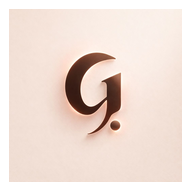
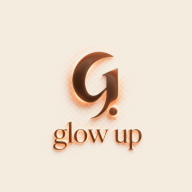
Prep app + confidentialite: page politique de confidentialite, nouvelle icone app, fiche App Store, ressources Capacitor
- /confidentialite : politique RGPD (requise par Apple) + liens footer (site + blog)
- Icone app = nouveau logo 'g.' (icons 192/512/1024), manifest couleurs terracotta/creme
- resources/ icon.png + splash.png (pour build cloud iOS)
- app-store/listing-fr.md : brouillon fiche App Store
- Footer: liens Conseils + Confidentialite

diff --git a/confidentialite/index.html b/confidentialite/index.html
@@ -1,0 +1,130 @@
+<!doctype html>
+<html lang="fr">
+<head>
+<meta charset="utf-8">
+<meta name="viewport" content="width=device-width, initial-scale=1">
+<title>Politique de confidentialité · Glow Up</title>
+<meta name="description" content="Politique de confidentialité de Glow Up : quelles données nous collectons, pourquoi, avec qui elles sont partagées, et tes droits.">
+<link rel="canonical" href="https://glowupskin.app/confidentialite/">
+<meta name="robots" content="index,follow">
+<link rel="icon" href="/icons/icon-192.png">
+<link rel="preconnect" href="https://fonts.googleapis.com">
+<link rel="preconnect" href="https://fonts.gstatic.com" crossorigin>
+<link href="https://fonts.googleapis.com/css2?family=Anton&family=Fraunces:opsz,wght@9..144,500;9..144,600&family=DM+Sans:opsz,wght@9..40,400;9..40,500;9..40,600&display=swap" rel="stylesheet">
+<style>
+:root{--cream:#F5ECE0;--white:#FCF8F1;--terra:#B4482E;--gold:#E0A24E;--espresso:#3A2318;--muted:#7E6552;--line:#E3D3BE;
+--anton:'Anton',Impact,sans-serif;--serif:'Fraunces',Georgia,serif;--sans:'DM Sans',-apple-system,BlinkMacSystemFont,"Segoe UI",sans-serif;}
+*{box-sizing:border-box;margin:0;padding:0;}
+body{background:var(--cream);color:var(--espresso);font-family:var(--sans);line-height:1.65;-webkit-font-smoothing:antialiased;}
+a{color:var(--terra);}
+.wrap{max-width:760px;margin:0 auto;padding:0 22px;}
+.bnav{position:sticky;top:0;z-index:10;background:rgba(245,236,224,.92);backdrop-filter:blur(10px);border-bottom:1px solid var(--line);}
+.bnav .wrap{display:flex;align-items:center;height:64px;gap:20px;max-width:1120px;}
+.bnav .brand{font-family:var(--serif);font-weight:600;font-size:25px;color:var(--terra);text-decoration:none;}
+.bnav .links{margin-left:auto;display:flex;gap:22px;font-size:14px;}
+.bnav .links a{color:var(--muted);text-decoration:none;}
+.hero{padding:56px 0 24px;}
+.hero .kicker{font-size:12px;font-weight:600;letter-spacing:.2em;text-transform:uppercase;color:var(--terra);}
+.hero h1{font-family:var(--anton);font-weight:400;text-transform:uppercase;font-size:clamp(34px,6vw,58px);line-height:.98;margin:10px 0 6px;}
+.hero .date{color:var(--muted);font-size:13px;}
+main.doc{padding:10px 0 40px;}
+.doc h2{font-family:var(--serif);font-weight:600;font-size:24px;color:var(--espresso);margin:36px 0 10px;}
+.doc h3{font-family:var(--serif);font-weight:600;font-size:18px;margin:22px 0 6px;}
+.doc p{margin:12px 0;font-size:16.5px;}
+.doc ul{margin:12px 0 12px 1.2em;}
+.doc li{margin:7px 0;}
+.doc strong{color:var(--espresso);}
+.callout{background:var(--white);border:1px solid var(--line);border-left:3px solid var(--gold);border-radius:0 12px 12px 0;padding:14px 18px;font-size:14.5px;color:var(--muted);margin:18px 0;}
+.foot{background:var(--espresso);color:#E7D6C4;margin-top:40px;}
+.foot .wrap{padding:34px 22px;display:flex;flex-wrap:wrap;gap:14px;align-items:center;max-width:1120px;}
+.foot .fb{font-family:var(--serif);font-weight:600;font-size:22px;color:var(--cream);}
+.foot .fl{margin-left:auto;display:flex;gap:18px;}
+.foot a{color:#E7D6C4;text-decoration:none;font-size:14px;}
+.foot .copy{width:100%;border-top:1px solid rgba(255,255,255,.12);padding-top:14px;font-size:12px;color:#A78B74;}
+</style>
+</head>
+<body>
+<nav class="bnav"><div class="wrap">
+  <a class="brand" href="/">glow up</a>
+  <div class="links"><a href="/">Accueil</a><a href="/blog/">Conseils</a></div>
+</div></nav>
+
+<header class="hero"><div class="wrap">
+  <span class="kicker">Glow Up</span>
+  <h1>Politique de confidentialité</h1>
+  <p class="date">Dernière mise à jour : 11 septembre 2026</p>
+</div></header>
+
+<main class="doc"><div class="wrap">
+
+  <p>Chez Glow Up, ta confiance compte autant que ta peau. Cette page explique clairement quelles données nous collectons, pourquoi, avec qui elles sont partagées, et quels sont tes droits. Nous appliquons le Règlement Général sur la Protection des Données (RGPD).</p>
+
+  <h2>1. Qui est responsable de tes données</h2>
+  <p>Le responsable du traitement est <strong>Glow Up</strong>, éditrice de l'application et du site <a href="https://glowupskin.app">glowupskin.app</a>. Pour toute question relative à tes données, tu peux nous écrire à <strong>contact@glowupskin.app</strong>.</p>
+
+  <h2>2. Les données que nous collectons</h2>
+  <ul>
+    <li><strong>Compte</strong> : ton adresse e-mail (et, si tu utilises Google, les informations de base de ton compte Google) pour créer et sécuriser ton espace.</li>
+    <li><strong>Photos</strong> : les photos de ton visage ou de tes produits que tu choisis d'analyser. Elles servent à l'analyse de ta peau et à la reconnaissance de produits. Des <strong>miniatures</strong> peuvent être conservées sur ton compte pour le suivi de l'évolution de ta peau (« Skin Journey »).</li>
+    <li><strong>Ton profil beauté</strong> : tes réponses au questionnaire, ta routine, tes préférences.</li>
+    <li><strong>Données d'usage</strong> : statistiques de navigation (pages vues, clics), collectées <strong>uniquement si tu acceptes les cookies</strong>.</li>
+    <li><strong>Abonnement</strong> : en cas d'achat, les informations de paiement sont traitées directement par notre prestataire Stripe — <strong>nous ne stockons jamais tes coordonnées bancaires</strong>.</li>
+  </ul>
+
+  <h2>3. Pourquoi nous utilisons tes données</h2>
+  <ul>
+    <li>Te fournir l'analyse de peau et une routine personnalisée <em>(exécution du service)</em>.</li>
+    <li>Gérer ton compte et ton abonnement <em>(exécution du contrat)</em>.</li>
+    <li>Améliorer l'application et comprendre son usage <em>(ton consentement, via les cookies)</em>.</li>
+    <li>Assurer la sécurité et prévenir les abus <em>(intérêt légitime)</em>.</li>
+  </ul>
+
+  <h2>4. Avec qui tes données sont partagées</h2>
+  <p>Nous ne vendons jamais tes données. Nous faisons appel à des prestataires de confiance, strictement pour faire fonctionner le service :</p>
+  <ul>
+    <li><strong>Google Firebase</strong> (authentification, base de données, hébergement) — compte, profil, miniatures.</li>
+    <li><strong>Google Analytics</strong> (mesure d'audience) — uniquement après ton consentement.</li>
+    <li><strong>Stripe</strong> (paiement sécurisé) — gestion des abonnements.</li>
+    <li><strong>Amazon</strong> — nos liens produits sont des liens affiliés ; si tu cliques, Amazon applique ses propres règles de confidentialité.</li>
+  </ul>
+
+  <h2>5. Cookies et mesure d'audience</h2>
+  <p>À ta première visite, un bandeau te permet d'<strong>accepter ou refuser</strong> les cookies de mesure d'audience (Google Analytics). Tant que tu n'as pas accepté, aucune statistique n'est envoyée. Les cookies strictement nécessaires au fonctionnement (connexion) restent actifs.</p>
+
+  <h2>6. Combien de temps nous les conservons</h2>
+  <ul>
+    <li>Données de compte et profil : tant que ton compte est actif.</li>
+    <li>Photos d'analyse : le temps de l'analyse ; les miniatures de suivi restent tant que tu ne les supprimes pas.</li>
+    <li>Statistiques : conformément aux réglages de Google Analytics (durée limitée).</li>
+  </ul>
+  <p>Tu peux demander la suppression de ton compte et de tes données à tout moment.</p>
+
+  <h2>7. Tes droits</h2>
+  <p>Conformément au RGPD, tu disposes des droits suivants : <strong>accès, rectification, effacement, portabilité, limitation et opposition</strong>. Pour les exercer, écris-nous à <strong>contact@glowupskin.app</strong>. Tu peux aussi introduire une réclamation auprès de la CNIL (cnil.fr).</p>
+
+  <h2>8. Sécurité</h2>
+  <p>Tes données sont hébergées sur des infrastructures sécurisées (Google Firebase) et les échanges sont chiffrés (HTTPS). L'accès est restreint aux traitements nécessaires au service.</p>
+
+  <h2>9. Mineurs</h2>
+  <p>Glow Up n'est pas destinée aux enfants. Pour les jeunes utilisatrices, des règles de sécurité limitent certaines recommandations d'actifs puissants. Si tu es mineure, utilise l'application avec l'accord d'un parent.</p>
+
+  <h2>10. Transferts internationaux</h2>
+  <p>Certains prestataires (Google, Stripe) peuvent traiter des données en dehors de l'Union européenne, avec des garanties conformes au RGPD (clauses contractuelles types).</p>
+
+  <h2>11. Modifications</h2>
+  <p>Nous pouvons mettre à jour cette politique. La date en haut de page indique la dernière version.</p>
+
+  <h2>12. Contact</h2>
+  <p>Une question sur tes données ? Écris-nous à <strong>contact@glowupskin.app</strong>. Nous te répondrons dans les meilleurs délais.</p>
+
+  <div class="callout">Glow Up t'accompagne en toute transparence : tes recommandations sont guidées par les besoins de ta peau et tes envies — jamais par une marque.</div>
+
+</div></main>
+
+<footer class="foot"><div class="wrap">
+  <div class="fb">glow up</div>
+  <div class="fl"><a href="/">Accueil</a><a href="/blog/">Conseils</a><a href="/confidentialite/">Confidentialité</a></div>
+  <div class="copy">© 2026 Glow Up · Ton agent IA skincare</div>
+</div></footer>
+</body>
+</html>

diff --git a/index.html b/index.html
@@ -625,6 +625,7 @@
           <li><a href="#" onclick="showScreen('shop'); return false;">Boutique</a></li>
           <li><a href="#" onclick="startGlowUp(); return false;">Mon diagnostic</a></li>
           <li><a href="#" onclick="showScreen('tryon'); return false;">Try-on virtuel</a></li>
+          <li><a href="/blog/">Conseils</a></li>
         </ul>
       </div>
       <div class="footer-col">
@@ -634,6 +635,7 @@
           <li><a href="#">FAQ</a></li>
           <li><a href="#">Contact</a></li>
           <li><a href="#" onclick="openCookieSettings(); return false;">Gérer les cookies</a></li>
+          <li><a href="/confidentialite/">Confidentialité</a></li>
         </ul>
       </div>
     </div>

diff --git a/blog/peau-fine-et-fragile/index.html b/blog/peau-fine-et-fragile/index.html
@@ -113,6 +113,6 @@ a{color:var(--terra);}
         <div class="wrap" style="max-width:680px;margin:0 auto;"><a class="backlink" href="/blog/">← Tous les conseils</a></div>
         </main><footer class="foot"><div class="wrap">
 <div class="fb">glow up</div>
-<div class="fl"><a href="/">Accueil</a><a href="/blog/">Conseils</a><a href="https://www.instagram.com/">Instagram</a></div>
+<div class="fl"><a href="/">Accueil</a><a href="/blog/">Conseils</a><a href="/confidentialite/">Confidentialité</a><a href="https://www.instagram.com/">Instagram</a></div>
 <div class="copy">© 2026 Glow Up · Ton agent IA skincare</div>
 </div></footer></body></html>

diff --git a/blog/routine-skincare-peau-fine-35-45-ans/index.html b/blog/routine-skincare-peau-fine-35-45-ans/index.html
@@ -110,6 +110,6 @@ a{color:var(--terra);}
         <div class="wrap" style="max-width:680px;margin:0 auto;"><a class="backlink" href="/blog/">← Tous les conseils</a></div>
         </main><footer class="foot"><div class="wrap">
 <div class="fb">glow up</div>
-<div class="fl"><a href="/">Accueil</a><a href="/blog/">Conseils</a><a href="https://www.instagram.com/">Instagram</a></div>
+<div class="fl"><a href="/">Accueil</a><a href="/blog/">Conseils</a><a href="/confidentialite/">Confidentialité</a><a href="https://www.instagram.com/">Instagram</a></div>
 <div class="copy">© 2026 Glow Up · Ton agent IA skincare</div>
 </div></footer></body></html>

diff --git a/blog/index.html b/blog/index.html
@@ -99,6 +99,6 @@ a{color:var(--terra);}
         <span class="more">Lire l'article →</span>
       </div></a></div></div></main><footer class="foot"><div class="wrap">
 <div class="fb">glow up</div>
-<div class="fl"><a href="/">Accueil</a><a href="/blog/">Conseils</a><a href="https://www.instagram.com/">Instagram</a></div>
+<div class="fl"><a href="/">Accueil</a><a href="/blog/">Conseils</a><a href="/confidentialite/">Confidentialité</a><a href="https://www.instagram.com/">Instagram</a></div>
 <div class="copy">© 2026 Glow Up · Ton agent IA skincare</div>
 </div></footer></body></html>

diff --git a/build-blog.js b/build-blog.js
@@ -129,7 +129,7 @@ const NAV = `<nav class="bnav"><div class="wrap">
 
 const FOOT = `<footer class="foot"><div class="wrap">
 <div class="fb">glow up</div>
-<div class="fl"><a href="/">Accueil</a><a href="/blog/">Conseils</a><a href="https://www.instagram.com/">Instagram</a></div>
+<div class="fl"><a href="/">Accueil</a><a href="/blog/">Conseils</a><a href="/confidentialite/">Confidentialité</a><a href="https://www.instagram.com/">Instagram</a></div>
 <div class="copy">© ${new Date().getFullYear()} Glow Up · Ton agent IA skincare</div>
 </div></footer></body></html>`;
 

diff --git a/app-store/listing-fr.md b/app-store/listing-fr.md
@@ -1,0 +1,64 @@
+# Fiche App Store — Glow Up (FR)
+
+> Brouillon à valider par Candice. Ces textes se collent dans App Store Connect.
+
+## Identité
+- **Nom de l'app** (max 30) : `Glow Up : routine skincare IA`
+- **Sous-titre** (max 30) : `Ton agent IA skincare`
+- **Bundle ID (appId)** : `app.glowupskin`
+- **Catégorie principale** : Style de vie (Lifestyle)
+- **Catégorie secondaire** : Forme et santé
+- **Classification d'âge** : 4+
+
+## Texte promotionnel (max 170)
+Analyse ta peau en photo, obtiens une routine faite pour toi et compare les prix pour payer le juste prix — sans jamais pousser une marque plutôt qu'une autre.
+
+## Description (max 4000)
+**Glow Up, c'est ton assistant beauté personnel — guidé par les besoins réels de ta peau, jamais par une marque.**
+
+Fini les routines copiées sur les autres : Glow Up analyse TA peau et te construit une routine sur-mesure, étape par étape, à ton budget.
+
+**✨ Ce que tu peux faire avec Glow Up :**
+
+• **Analyse de peau par photo** — En quelques secondes, découvre ton type de peau, tes besoins (hydratation, éclat, rougeurs, texture) et ton niveau de sensibilité.
+
+• **Ta routine personnalisée** — Une routine matin/soir pensée pour ta peau, avec les bonnes étapes et les bons actifs, jamais plus que nécessaire.
+
+• **Comparateur de prix** — Pour chaque produit recommandé, compare les offres du marché et paie le juste prix.
+
+• **Trouver un dupe** — Prends un produit en photo, Glow Up te trouve son équivalent le plus proche, moins cher.
+
+• **Analyse de ta routine actuelle** — Tes produits actuels sont-ils faits pour ta peau ? Obtiens un score et des conseils clairs.
+
+• **Suivi dans le temps (Skin Journey)** — Reprends une photo tous les 4 jours et vois l'évolution réelle de ta peau.
+
+• **Coach beauté IA** — Pose tes questions skincare et reçois des réponses personnalisées.
+
+**🤍 Notre promesse :** des recommandations guidées par tes besoins et tes envies — jamais par une marque. La beauté, en toute transparence.
+
+Analyse, comprends, rayonne. ✦
+
+## Mots-clés (max 100 caractères, séparés par des virgules)
+skincare,routine,peau,analyse,soin,visage,dupe,beauté,sérum,crème,acné,hydratation,anti-âge,IA,teint
+
+## URLs
+- **URL marketing** : https://glowupskin.app
+- **URL d'assistance** : https://glowupskin.app  *(prévoir une page contact/support)*
+- **Politique de confidentialité** : https://glowupskin.app/confidentialite/  ✅ (page en ligne)
+
+## Confidentialité (App Privacy — à déclarer dans App Store Connect)
+- **E-mail** : pour la création de compte (Firebase Auth) — lié à l'utilisateur.
+- **Photos** : utilisées pour l'analyse de peau ; miniatures conservées sur le compte pour le suivi (Skin Journey).
+- **Données d'usage** : statistiques (Google Analytics) — uniquement après consentement cookies.
+- **Achats** : abonnement géré via Stripe (paiement externe).
+
+## Captures d'écran requises (à produire)
+- iPhone 6.7" (1290 x 2796) — 3 à 10 visuels
+- iPhone 6.5" (1242 x 2688) — optionnel si 6.7" fournies
+- iPad 12.9" (2048 x 2732) — si app dispo iPad
+> Idées d'écrans : Accueil, Analyse de peau (résultat), Routine personnalisée, Trouver un dupe, Skin Journey. Je peux te générer des captures « marketing » encadrées.
+
+## À NE PAS oublier pour la validation Apple
+- L'app doit se sentir « app » (pas juste un site) → caméra native + fonctions réelles (OK pour Glow Up).
+- Compte de test (identifiants) à fournir à Apple pour la review (email + mot de passe d'un compte démo).
+- Politique de confidentialité en ligne (URL obligatoire).
